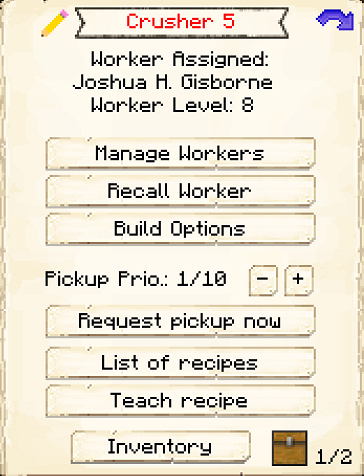
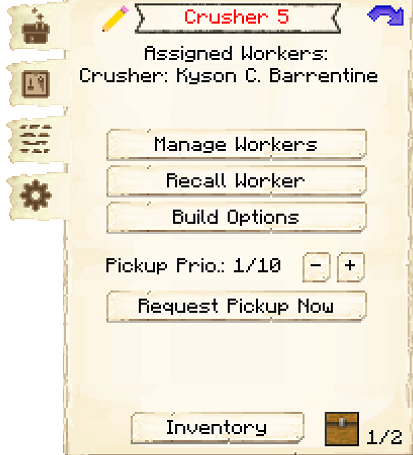
Crusher Hut Update

diff --git a/source/buildings/crusher.md b/source/buildings/crusher.md
@@ -26,7 +26,10 @@ The Crusher's Hut is where the Crusher will take items and crush them into other
 
 | Starting Item | Created Item |
 | ----- | ----- |
+| Bone          | Bonemeal     |
+| Bone Block    | Bonemeal     |
 | Cobblestone   | Gravel (chance to get flint) |
+| Clay          | Clay Ball    |
 | Gravel        | Sand         |
 | Sand          | Clay         |
 
@@ -44,7 +47,7 @@ The higher the level of the Crusher's Hut, the more daily output the Crusher can
 
 ## Crusher's Hut GUI
 
-When accessing the Crusher's Hut block by right-clicking on it, you will see a GUI with different options:
+When accessing the Crusher's Hut block by right-clicking on it, you will see a GUI with different options.   You start on the main tab:
 
 <br>
 <div class="row">
@@ -62,10 +65,47 @@ When accessing the Crusher's Hut block by right-clicking on it, you will see a G
 </div>
 
 <br>
-
-On page two of the GUI, you can set what you want the Crusher to crush and how many blocks per day. (See the above lists.) Be sure to click save at the bottom after you make changes.
+<div class="row">
+    <div class="col-sm-12 col-md">
+      <img src="../../assets/images/gui/crushergui2.png" class="img-fluid mx-auto" alt="Crusher GUI2">
+    </div>
+    <div class="col-sm-12 col-md">
+    <p>Clicking on the blue arrow on the first page will bring you to <strong>Missing</strong>. Here you can set what you want the Crusher to crush and how many blocks per day. (See the above lists.) Be sure to click save at the bottom after you make changes.</p>
+    </div>
+</div>
 
 <br>
-<img src="../../assets/images/gui/crushergui2.png" alt="Crusher GUI Page 2" />
+<div class="row">
+    <div class="col-sm-12 col-md">
+      <img src="../../assets/images/gui/crushergui3.png" class="img-fluid mx-auto" alt="Crusher GUI3">
+    </div>
+    <div class="col-sm-12 col-md">
+    <p>The second tab of the GUI is <strong>List of Recipes</strong>. Here you can see all the crafting recipes this hut knows.  The arrows allow you to move them up or down in priority.  You are also able to disable specific recipes.</p>
+    </div>
+</div>
 
 <br>
+<div class="row">
+    <div class="col-sm-12 col-md">
+      <img src="../../assets/images/gui/crushergui4.png" class="img-fluid mx-auto" alt="Crusher GUI4">
+    </div>
+    <div class="col-sm-12 col-md">
+    <p>The third tab of the GUI is <strong>Tasks</strong>.  This tab shows you any requests the hut is working on, and where it is going.</p>
+    </div>
+</div>
+  
+<br>
+<div class="row">
+    <div class="col-sm-12 col-md">
+      <img src="../../assets/images/gui/crushergui5.png" class="img-fluid mx-auto" alt="Crusher GUI5">
+    </div>
+    <div class="col-sm-12 col-md">
+    <p>The fourth tab of the GUI is <strong>Settings</strong>.</p>
+      <li><strong>Recipe Mode:</strong>  This is unlocked by researching Warehouse Master in the University.  This allows you to change the order the hut chooses when it knows more than one recipe for an item. 
+        <ul>
+          <li><strong>Priority:</strong>  This is the default setting.  The hut will try to use the recipe that is higher up in their recipe list first.</li>
+          <li><strong>Warehouse Stock:</strong> The hut will look in the warehouse first to see what resource you have more of before deciding what recipe it will use.</li>
+        </ul>
+     </li>
+    </div>
+</div>
